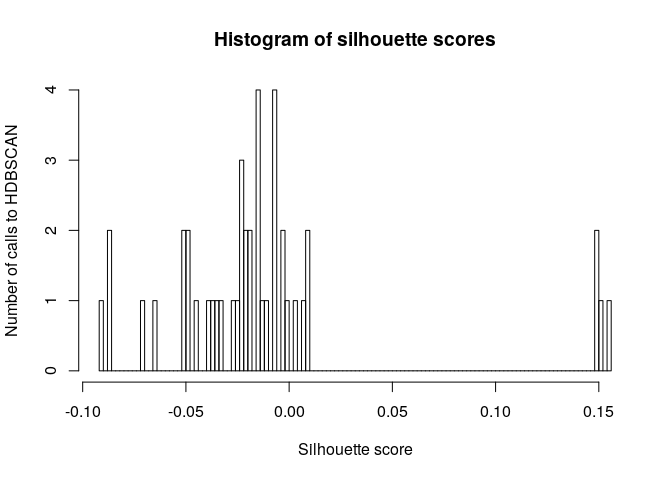
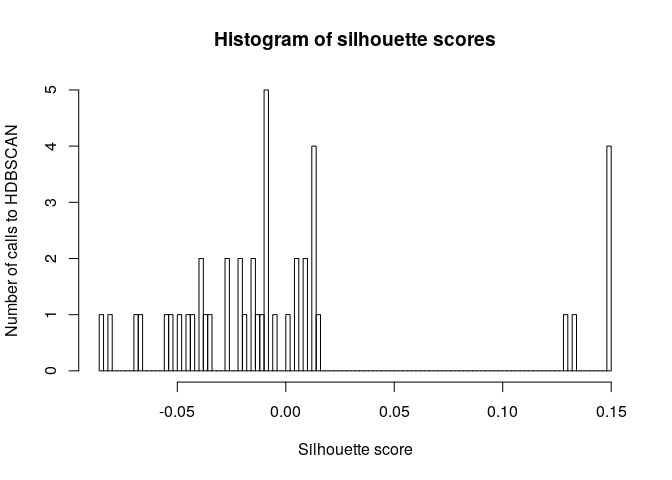
added random seed to tutorials

diff --git a/examples/mapping_tutorial.md b/examples/mapping_tutorial.md
@@ -11,6 +11,7 @@ CITE-seq protein expression matrix for both mice: <https://www.dropbox.com/s/xzo
 
 ``` r
 library(STvEA)
+set.seed(4068) #3048
 ```
 
 Read in CODEX data
@@ -112,13 +113,15 @@ stvea_object <- CleanCODEX(stvea_object)
 Clean and normalize CITE-seq protein expression
 -----------------------------------------------
 
-We follow a similar approach for removing noise in the CITE-seq protein expression as we used for the CODEX data. We fit a negative binomial mixture model to the expression counts of each protein, then take the signal expression as the cumulative probability according to the Negative Binomial with the higher median.
+We follow a similar approach for removing noise in the CITE-seq protein expression as we used for the CODEX data. We fit a negative binomial mixture model to the expression counts of each protein, then take the signal expression as the cumulative probability according to the Negative Binomial component with the higher median.
 
 The resulting probability can then optionally be divided by the total protein expression counts per cell to reduce artifacts caused by differing cell sizes. If the *normalize* parameter is set to FALSE, this step will be skipped.
 
+Alternatively, by setting *model* = "gaussian", a Gaussian mixture model will be fit to the log-normalized protein expression with the zeros removed. The signal expression is then taken as the cumulative probability according to the Gaussian component with the higher median.
+
 ``` r
 # This will take around 10 minutes
-stvea_object <- CleanCITE(stvea_object, num_cores=8, normalize=TRUE)
+stvea_object <- CleanCITE(stvea_object, num_cores=1, normalize=TRUE, model="nb")
 ```
 
 Fitting a negative binomial model required raw counts for the protein expression data, so batch correction may optionally be performed after the noise cleaning step. To do so, use a separate batch correction algorithm, such as mnnCorrect from Haghverdi et al. (<https://www.nature.com/articles/nbt.4091>) on the stvea\_object@cite\_clean matrix, then set stvea\_object@cite\_clean to be the corrected output of that algorithm. The rest of the STvEA mapping algorithm will work best if the protein expression values after batch correction are rescaled to \[0,1\].
@@ -274,8 +277,8 @@ Since we are computing the Adjacency Score of every combination of features (clu
 protein_adj <- AdjScoreProteins(stvea_object, k=3, num_cores=8)
 ```
 
-    ## Creating permutation matrices - 8.561 seconds
-    ## Computing adjacency score for each feature pair - 36.248 seconds
+    ## Creating permutation matrices - 8.485 seconds
+    ## Computing adjacency score for each feature pair - 40.623 seconds
 
 ``` r
 AdjScoreHeatmap(protein_adj)
@@ -299,8 +302,8 @@ for (gene in gene_list) {
 gene_adj <- AdjScoreGenes(stvea_object, gene_pairs,  k=3, num_cores=8)
 ```
 
-    ## Creating permutation matrices - 7.784 seconds
-    ## Computing adjacency score for each feature pair - 43.465 seconds
+    ## Creating permutation matrices - 7.508 seconds
+    ## Computing adjacency score for each feature pair - 42.749 seconds
 
 ``` r
 AdjScoreHeatmap(gene_adj)
@@ -316,8 +319,8 @@ Since the assignment of a cell to a cluster is a binary feature which is mutuall
 codex_cluster_adj <- AdjScoreClustersCODEX(stvea_object, k=3)
 ```
 
-    ## Creating permutation matrices - 0.008 seconds
-    ## Computing adjacency score for each feature pair - 0.8 seconds
+    ## Creating permutation matrices - 0.013 seconds
+    ## Computing adjacency score for each feature pair - 0.886 seconds
 
 ``` r
 AdjScoreHeatmap(codex_cluster_adj)
@@ -333,8 +336,8 @@ These mapped cluster assignments are not mutually exclusive like the ones above,
 cite_cluster_adj <- AdjScoreClustersCITE(stvea_object, k=3, num_cores=8)
 ```
 
-    ## Creating permutation matrices - 4.798 seconds
-    ## Computing adjacency score for each feature pair - 13.034 seconds
+    ## Creating permutation matrices - 6.464 seconds
+    ## Computing adjacency score for each feature pair - 20.77 seconds
 
 ``` r
 AdjScoreHeatmap(cite_cluster_adj)

diff --git a/examples/seurat_tutorial.md b/examples/seurat_tutorial.md
@@ -11,6 +11,7 @@ CITE-seq protein expression matrix for both mice: <https://www.dropbox.com/s/xzo
 
 ``` r
 library(STvEA)
+set.seed(4068)
 ```
 
 Read in CODEX data
@@ -106,9 +107,11 @@ We follow a similar approach for removing noise in the CITE-seq protein expressi
 
 The resulting probability can then optionally be divided by the total protein expression counts per cell to reduce artifacts caused by differing cell sizes. If the *normalize* parameter is set to FALSE, this step will be skipped.
 
+Alternatively, by setting *model* = "gaussian", a Gaussian mixture model will be fit to the log-normalized protein expression with the zeros removed. The signal expression is then taken as the cumulative probability according to the Gaussian component with the higher median.
+
 ``` r
 # This will take around 10 minutes
-stvea_object <- CleanCITE(stvea_object, num_cores=8, normalize=TRUE)
+stvea_object <- CleanCITE(stvea_object, num_cores=1, normalize=TRUE, model="nb")
 ```
 
 Cluster CODEX cells based on protein expression
@@ -230,8 +233,8 @@ Since we are computing the Adjacency Score of every combination of features (clu
 protein_adj <- AdjScoreProteins(stvea_object, k=3, num_cores=8)
 ```
 
-    ## Creating permutation matrices - 8.417 seconds
-    ## Computing adjacency score for each feature pair - 40.876 seconds
+    ## Creating permutation matrices - 9.072 seconds
+    ## Computing adjacency score for each feature pair - 38.986 seconds
 
 ``` r
 AdjScoreHeatmap(protein_adj)
@@ -255,8 +258,8 @@ for (gene in gene_list) {
 gene_adj <- AdjScoreGenes(stvea_object, gene_pairs,  k=3, num_cores=8)
 ```
 
-    ## Creating permutation matrices - 7.523 seconds
-    ## Computing adjacency score for each feature pair - 47.82 seconds
+    ## Creating permutation matrices - 9.536 seconds
+    ## Computing adjacency score for each feature pair - 47.032 seconds
 
 ``` r
 AdjScoreHeatmap(gene_adj)
@@ -272,8 +275,8 @@ Since the assignment of a cell to a cluster is a binary feature which is mutuall
 codex_cluster_adj <- AdjScoreClustersCODEX(stvea_object, k=3)
 ```
 
-    ## Creating permutation matrices - 0.009 seconds
-    ## Computing adjacency score for each feature pair - 0.433 seconds
+    ## Creating permutation matrices - 0.008 seconds
+    ## Computing adjacency score for each feature pair - 0.599 seconds
 
 ``` r
 AdjScoreHeatmap(codex_cluster_adj)
@@ -289,8 +292,8 @@ These mapped cluster assignments are not mutually exclusive like the ones above,
 cite_cluster_adj <- AdjScoreClustersCITE(stvea_object, k=3, num_cores=8)
 ```
 
-    ## Creating permutation matrices - 6.669 seconds
-    ## Computing adjacency score for each feature pair - 17.144 seconds
+    ## Creating permutation matrices - 5.118 seconds
+    ## Computing adjacency score for each feature pair - 17.14 seconds
 
 ``` r
 AdjScoreHeatmap(cite_cluster_adj)

diff --git a/examples/codex_tutorial.md b/examples/codex_tutorial.md
@@ -3,6 +3,7 @@ Using STvEA to analyze CODEX data
 
 ``` r
 library(STvEA)
+set.seed(4068)
 ```
 
 Read in CODEX data
@@ -135,8 +136,8 @@ Since we are computing the Adjacency Score of every combination of features (clu
 protein_adj <- AdjScoreProteins(stvea_object, k=3, num_cores=8)
 ```
 
-    ## Creating permutation matrices - 11.291 seconds
-    ## Computing adjacency score for each feature pair - 39.672 seconds
+    ## Creating permutation matrices - 11.271 seconds
+    ## Computing adjacency score for each feature pair - 39.315 seconds
 
 ``` r
 AdjScoreHeatmap(protein_adj)
@@ -152,8 +153,8 @@ Since the assignment of a cell to a cluster is a binary feature which is mutuall
 cluster_adj <- AdjScoreClustersCODEX(stvea_object, k=3)
 ```
 
-    ## Creating permutation matrices - 0.008 seconds
-    ## Computing adjacency score for each feature pair - 0.651 seconds
+    ## Creating permutation matrices - 0.007 seconds
+    ## Computing adjacency score for each feature pair - 0.34 seconds
 
 ``` r
 AdjScoreHeatmap(cluster_adj)
